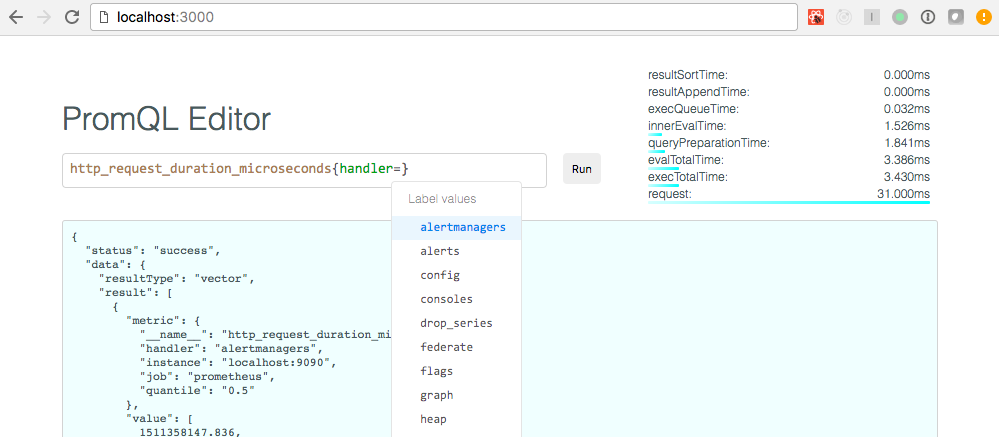
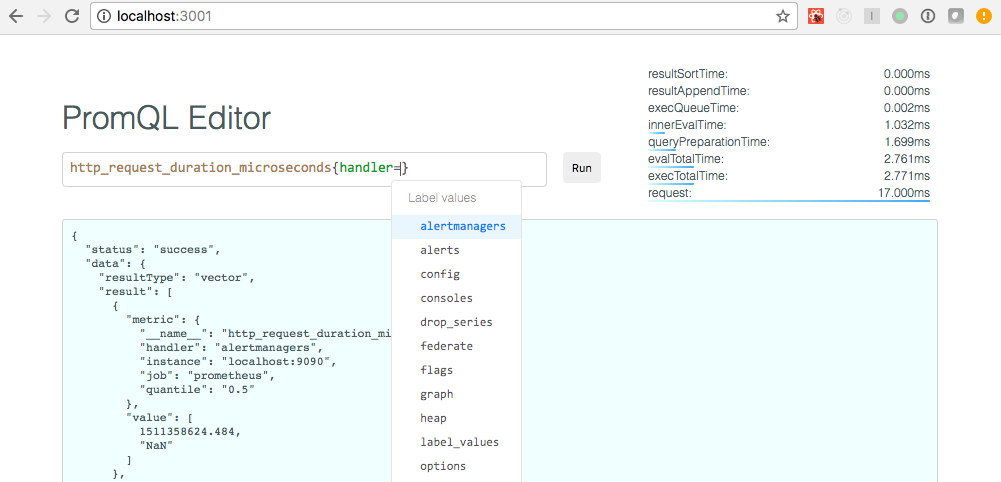
Updated screenshot

diff --git a/promeditor/src/Stats.css b/promeditor/src/Stats.css
@@ -14,7 +14,8 @@
 }
 
 .stats__line {
-  height: 3px;
-  background: linear-gradient(135deg, rgba(224, 255, 255, 1), rgb(0, 255, 255));
+  height: 2px;
+  background: linear-gradient(135deg, rgba(224, 255, 255, 1), rgba(16, 146, 233, 0.75));
   border-radius: 2px;
+  margin-bottom: 1px;
 }
